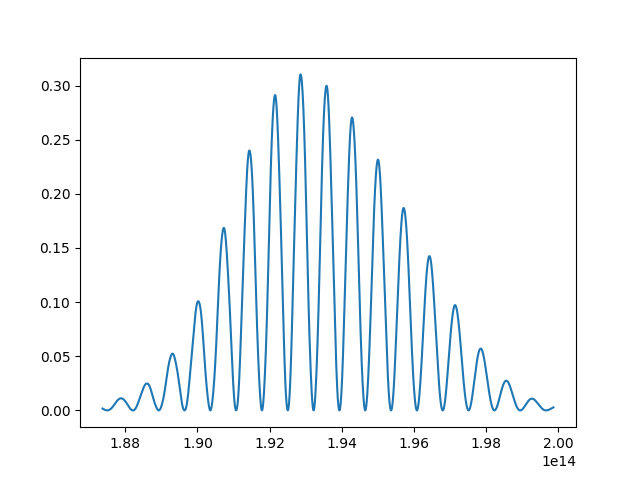
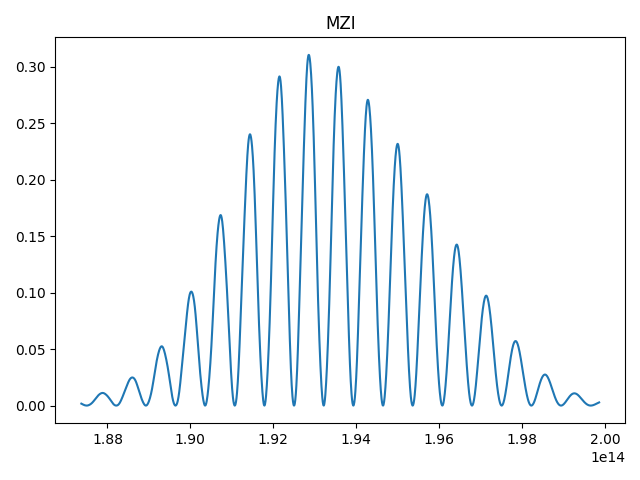
Added mzi example to readme

diff --git a/README.md b/README.md
@@ -42,3 +42,69 @@ The documentation is hosted [online](https://simphonyphotonics.readthedocs.io/en
 
 Changelogs can be found in docs/changelog/. There is a changelog file for 
 each released version of the software.
+
+
+## Example
+
+Simphony includes a built-in compact model library with some common components
+but can easily be extended to include custom libraries.
+
+Scripting circuits is simple and short. There are four main parts to running
+a simulation in Simphony:
+
+1. Define which component models will be used in the circuit.
+1. Add instances of components into a circuit.
+1. Define connection points.
+1. Run a simulation.
+
+```
+# Declare the models used in the circuit
+gc = siepic.ebeam_gc_te1550()
+y = siepic.ebeam_y_1550()
+wg150 = siepic.ebeam_wg_integral_1550(length=150e-6)
+wg50 = siepic.ebeam_wg_integral_1550(length=50e-6)
+
+# Create the circuit, add all individual instances
+circuit = Subcircuit('MZI')
+e = circuit.add([
+    (gc, 'input'),
+    (gc, 'output'),
+    (y, 'splitter'),
+    (y, 'recombiner'),
+    (wg150, 'wg_long'),
+    (wg50, 'wg_short'),
+])
+
+# You can set pin names individually:
+circuit.elements['input'].pins['n2'] = 'input'
+circuit.elements['output'].pins['n2'] = 'output'
+
+# Or you can rename all the pins simultaneously:
+circuit.elements['splitter'].pins = ('in1', 'out1', 'out2')
+circuit.elements['recombiner'].pins = ('out1', 'in2', 'in1')
+
+# Circuits can be connected using the elements' string names:
+circuit.connect_many([
+    ('input', 'n1', 'splitter', 'in1'),
+    ('splitter', 'out1', 'wg_long', 'n1'),
+    ('splitter', 'out2', 'wg_short', 'n1'),
+    ('recombiner', 'in1', 'wg_long', 'n2'),
+    ('recombiner', 'in2', 'wg_short', 'n2'),
+    ('output', 'n1', 'recombiner', 'out1'),
+])
+
+# Run a simulation on the netlist.
+simulation = SweepSimulation(circuit, 1500e-9, 1600e-9)
+result = simulation.simulate()
+
+f, s = result.data('input', 'output')
+plt.plot(f, s)
+plt.title("MZI")
+plt.tight_layout()
+plt.show()
+```
+
+![MZI simulation result (plot)](./docs/source/user/tutorials/images/plot_mzi.png)
+
+More examples can be found in the 
+[online documentation](https://simphonyphotonics.readthedocs.io/en/latest/user/tutorials/index.html).
